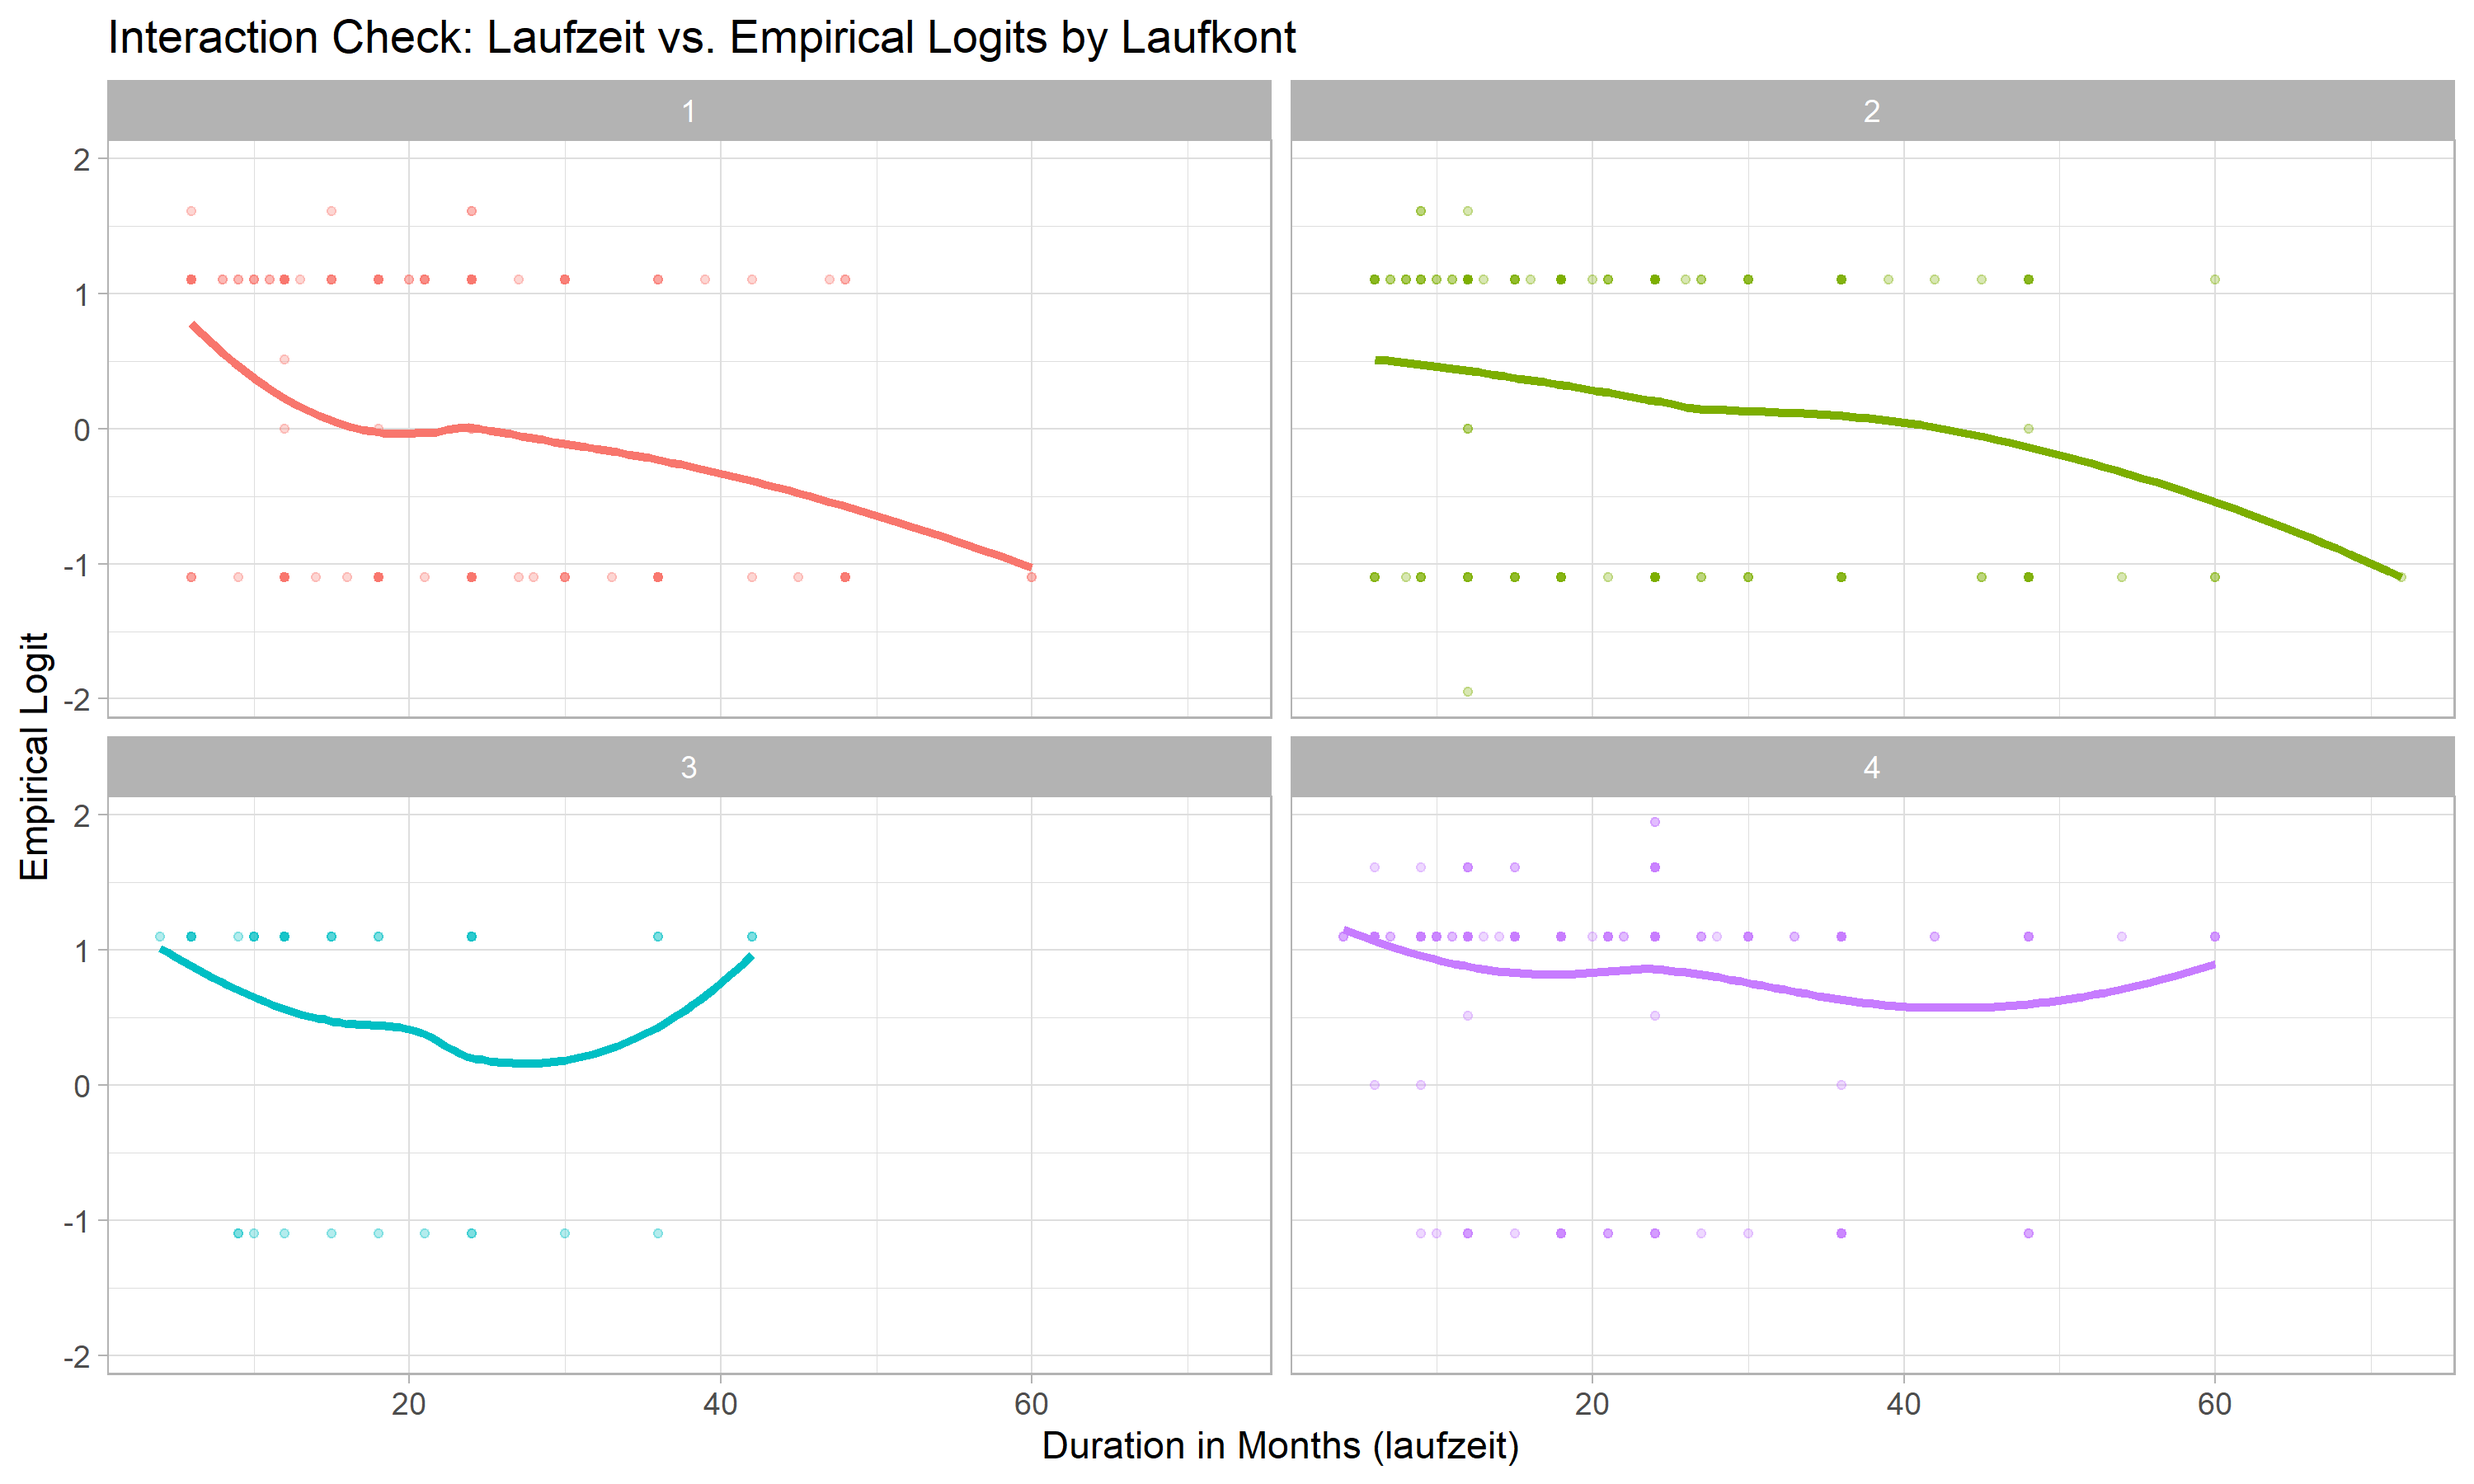
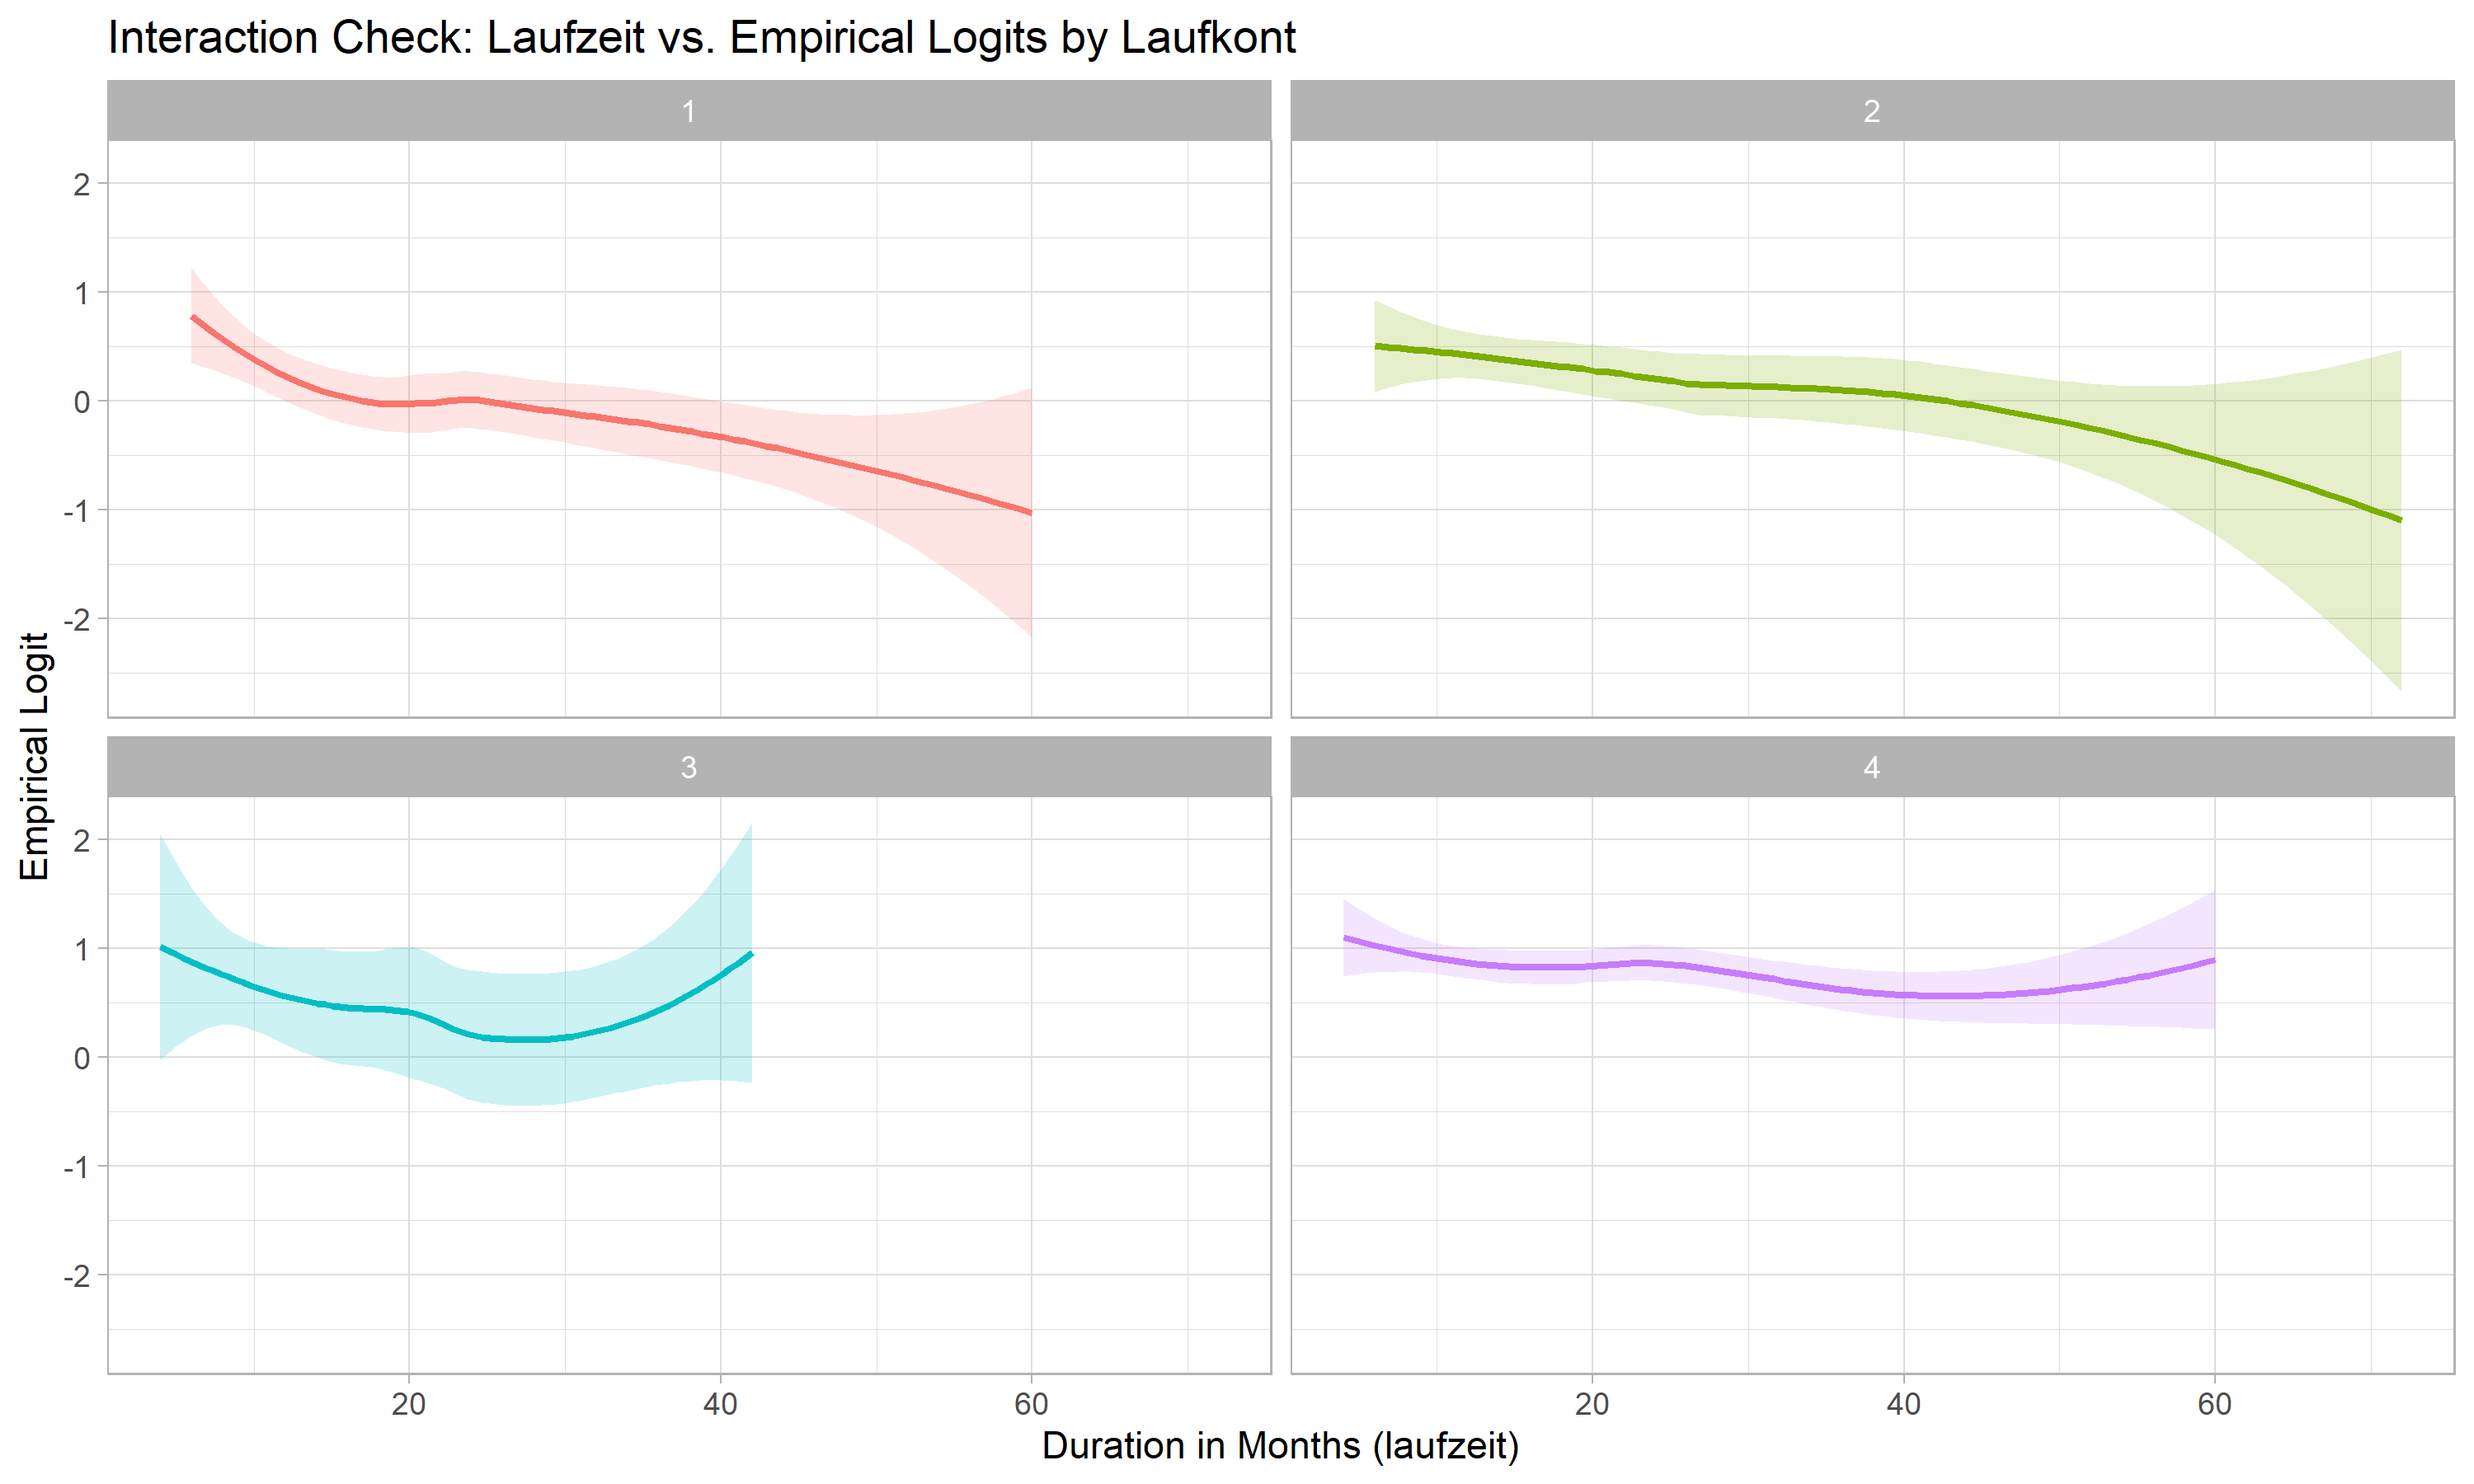
adding confidence bands in EDA plots of interaction effects; Model comparison to decide if interaction models are significant - final decision through comparison of BIC to take model complexity into account

diff --git a/README.md b/README.md
@@ -1,3 +1,8 @@
+---
+output:
+  pdf_document: default
+  html_document: default
+---
 # Credit Risk Modeling and Classification
 
 This project develops an interpretable logistic regression model for credit risk prediction. The model estimates borrower-specific probabilities of repayment and thereby supports credit-risk differentiation rather than relying solely on binary classification. The workflow combines binomial GLMs, functional-form assessment, likelihood-based model selection, residual and influence diagnostics, and out-of-sample validation.
